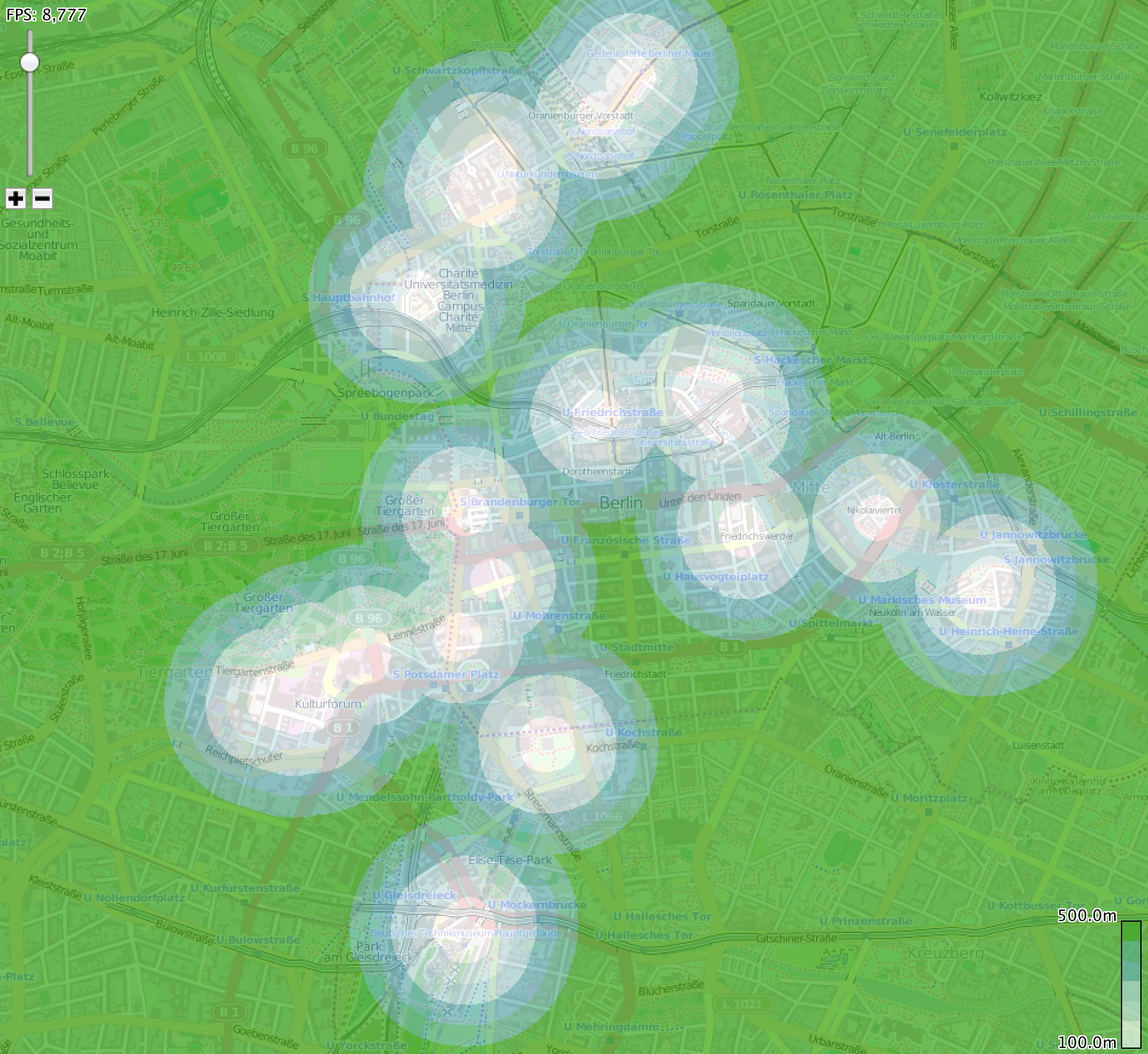
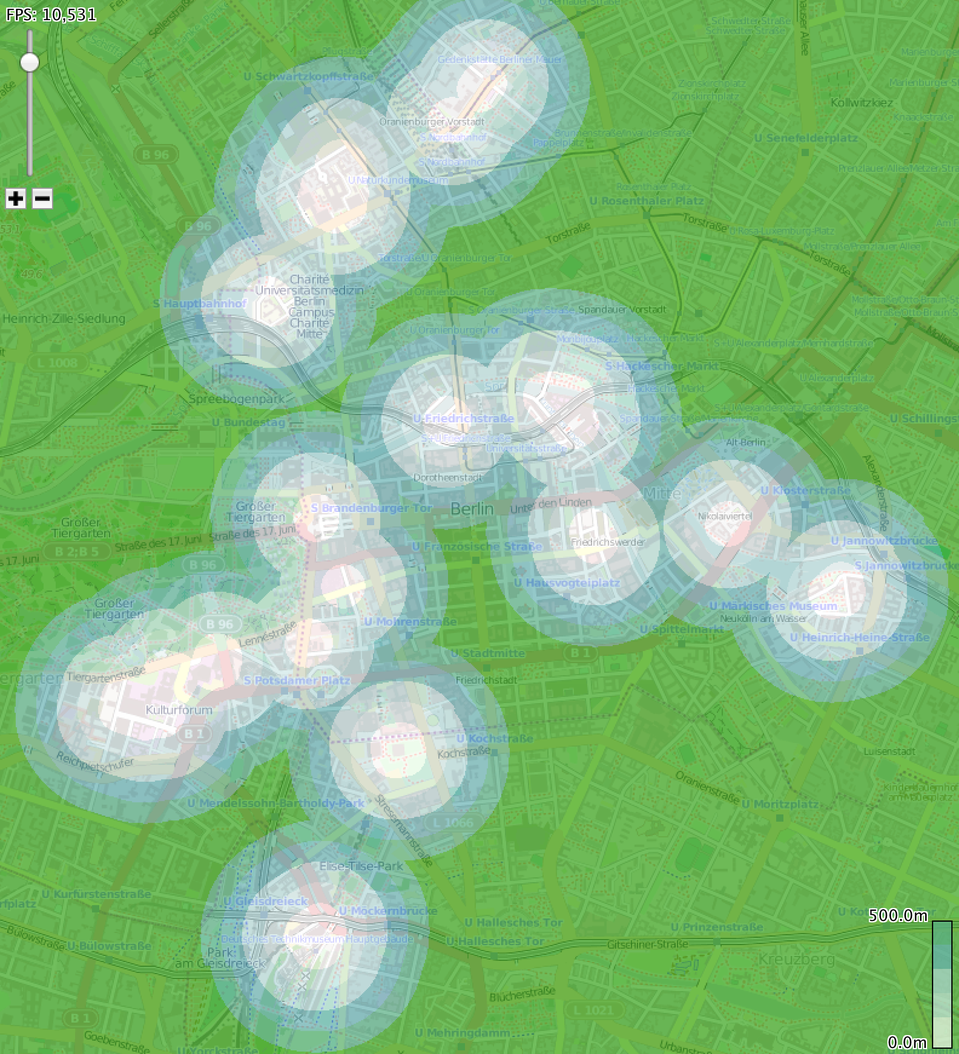
better heatmap colors

diff --git a/src/gis/gui/dist_transform/DistanceTransformationCombiner.java b/src/gis/gui/dist_transform/DistanceTransformationCombiner.java
@@ -23,7 +23,7 @@ public class DistanceTransformationCombiner implements DistanceColorMapping {
   }
 
   public static final DistanceColorMapping DISTANCE = new DistanceTransformationCombiner(
-      COLORS, THRESHOLDS);
+      COLORS, THRESHOLDS, 500, "m", false);
 
   public static final DistanceColorMapping HOTS = new DistanceTransformationCombiner(
       new int[] {
@@ -39,17 +39,24 @@ public class DistanceTransformationCombiner implements DistanceColorMapping {
 
           0x00ffffff | (192 << 24),
       }, new double[] {
-          50.0 / 16.0,
-          50.0 / 8.0,
-          50.0 / 4.0,
-          50.0 / 2.0,
-          50.0
-      });
+          30.0 / 4.0,
+          30.0 / 2.0,
+          30.0,
+          30.0 * 2.0,
+          30.0 * 4.0
+      }, 30.0, "px", true);
 
   private final int[] colors;
   private final double[] thresholds;
+  private final double max;
+  private final String unit;
+  private final boolean interpolate;
 
-  private DistanceTransformationCombiner(final int[] colors, final double[] thresholds) {
+  private DistanceTransformationCombiner(final int[] colors, final double[] thresholds,
+      final double max, final String unit, final boolean interpolate) {
+    this.max = max;
+    this.unit = unit;
+    this.interpolate = interpolate;
     this.colors = Objects.requireNonNull(colors);
     this.thresholds = Objects.requireNonNull(thresholds);
   }
@@ -62,35 +69,62 @@ public class DistanceTransformationCombiner implements DistanceColorMapping {
   @Override
   public int distanceToColor(final double distance) {
     for(int i = thresholds.length - 1; i >= 0; --i) {
-      if(distance >= thresholds[i]) return colors[i + 1];
+      if(distance >= thresholds[i]) {
+        if(!interpolate || i >= thresholds.length - 1) return colors[i + 1];
+        final double start = thresholds[i];
+        final double end = thresholds[i + 1];
+        final Color r = interpolate(new Color(colors[i], true),
+            new Color(colors[i + 1], true),
+            (distance - start) / (end - start));
+        return r.getRGB();
+      }
     }
     return colors[0];
   }
 
   @Override
   public double maxDistance() {
-    return thresholds[thresholds.length - 1];
+    return max;
   }
 
   @Override
   public Color intensityToColor(final double intensity) {
-    final int i = (int) (intensity * COLORS.length);
-    return new Color(colors[i], true);
+    return new Color(distanceToColor(intensity * getMax()), true);
   }
 
   @Override
   public double getMax() {
-    return thresholds[4];
+    return thresholds[thresholds.length - 1];
   }
 
   @Override
   public double getMin() {
-    return thresholds[0];
+    return 0;
   }
 
   @Override
   public String formatValue(final double value) {
-    return value + "m";
+    return value + unit;
+  }
+
+  /**
+   * Interpolates between two colors.
+   * 
+   * @param from The color to interpolate from.
+   * @param to The color to interpolate to.
+   * @param t The interpolation value from <code>0</code> to <code>1</code>.
+   * @return The interpolated color.
+   */
+  public static Color interpolate(final Color from, final Color to, final double t) {
+    final float[] fromRGBA = new float[4];
+    final float[] toRGBA = new float[4];
+    from.getRGBComponents(fromRGBA);
+    to.getRGBComponents(toRGBA);
+    final double r = fromRGBA[0] * (1 - t) + toRGBA[0] * t;
+    final double g = fromRGBA[1] * (1 - t) + toRGBA[1] * t;
+    final double b = fromRGBA[2] * (1 - t) + toRGBA[2] * t;
+    final double a = fromRGBA[3] * (1 - t) + toRGBA[3] * t;
+    return new Color((float) r, (float) g, (float) b, (float) a);
   }
 
 }
